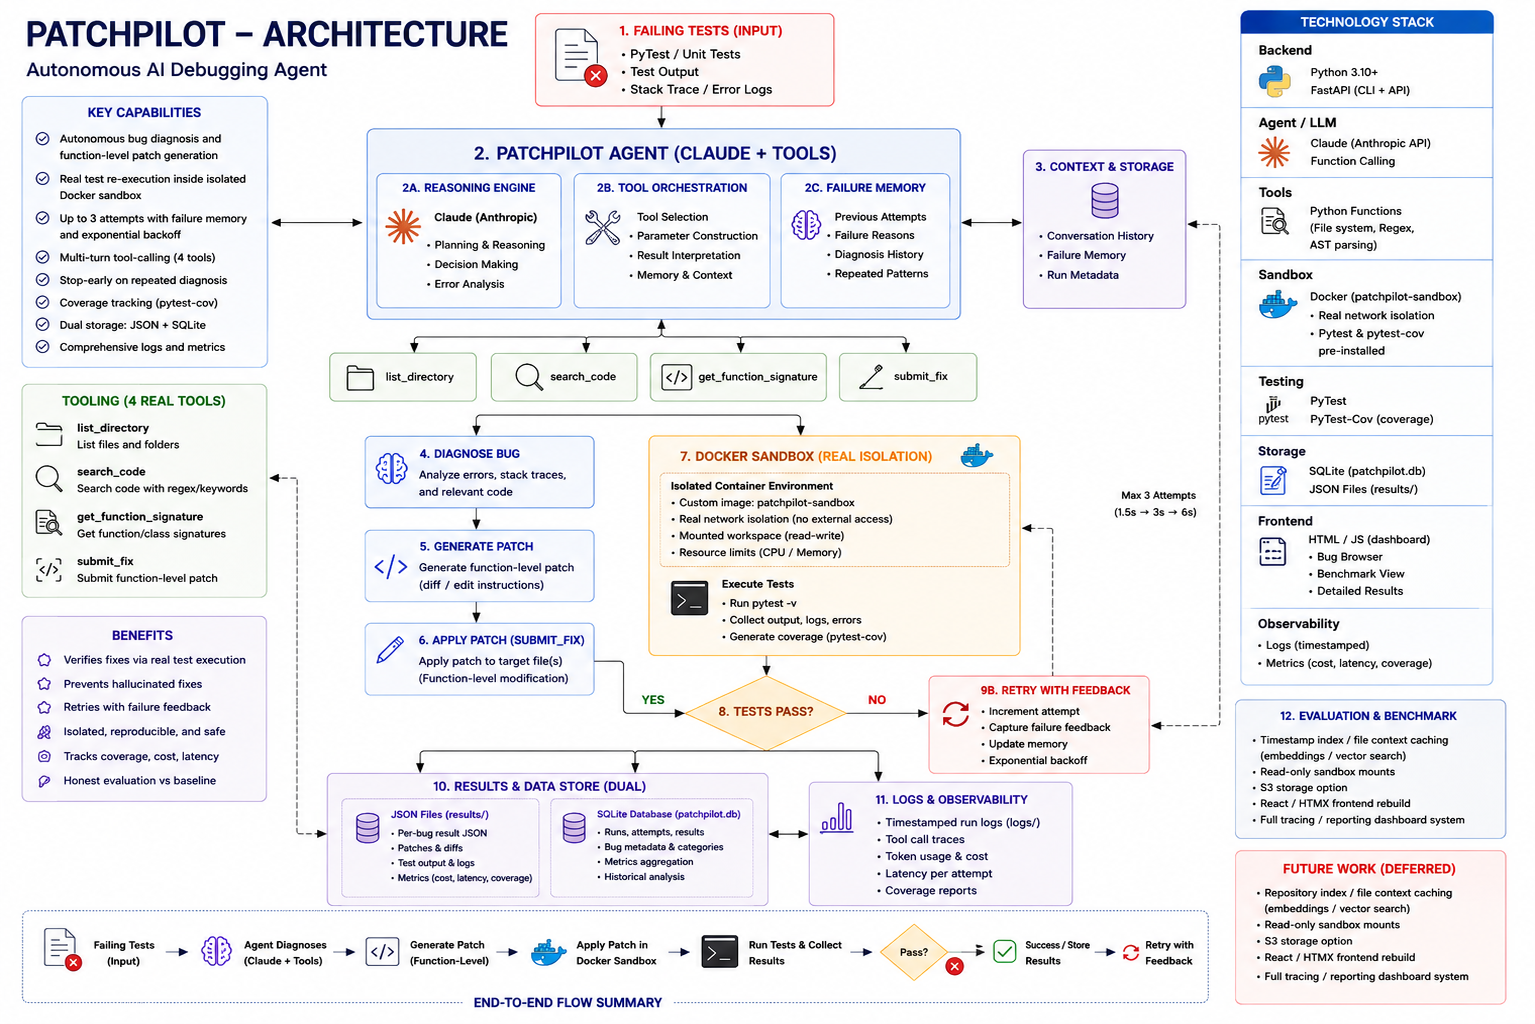
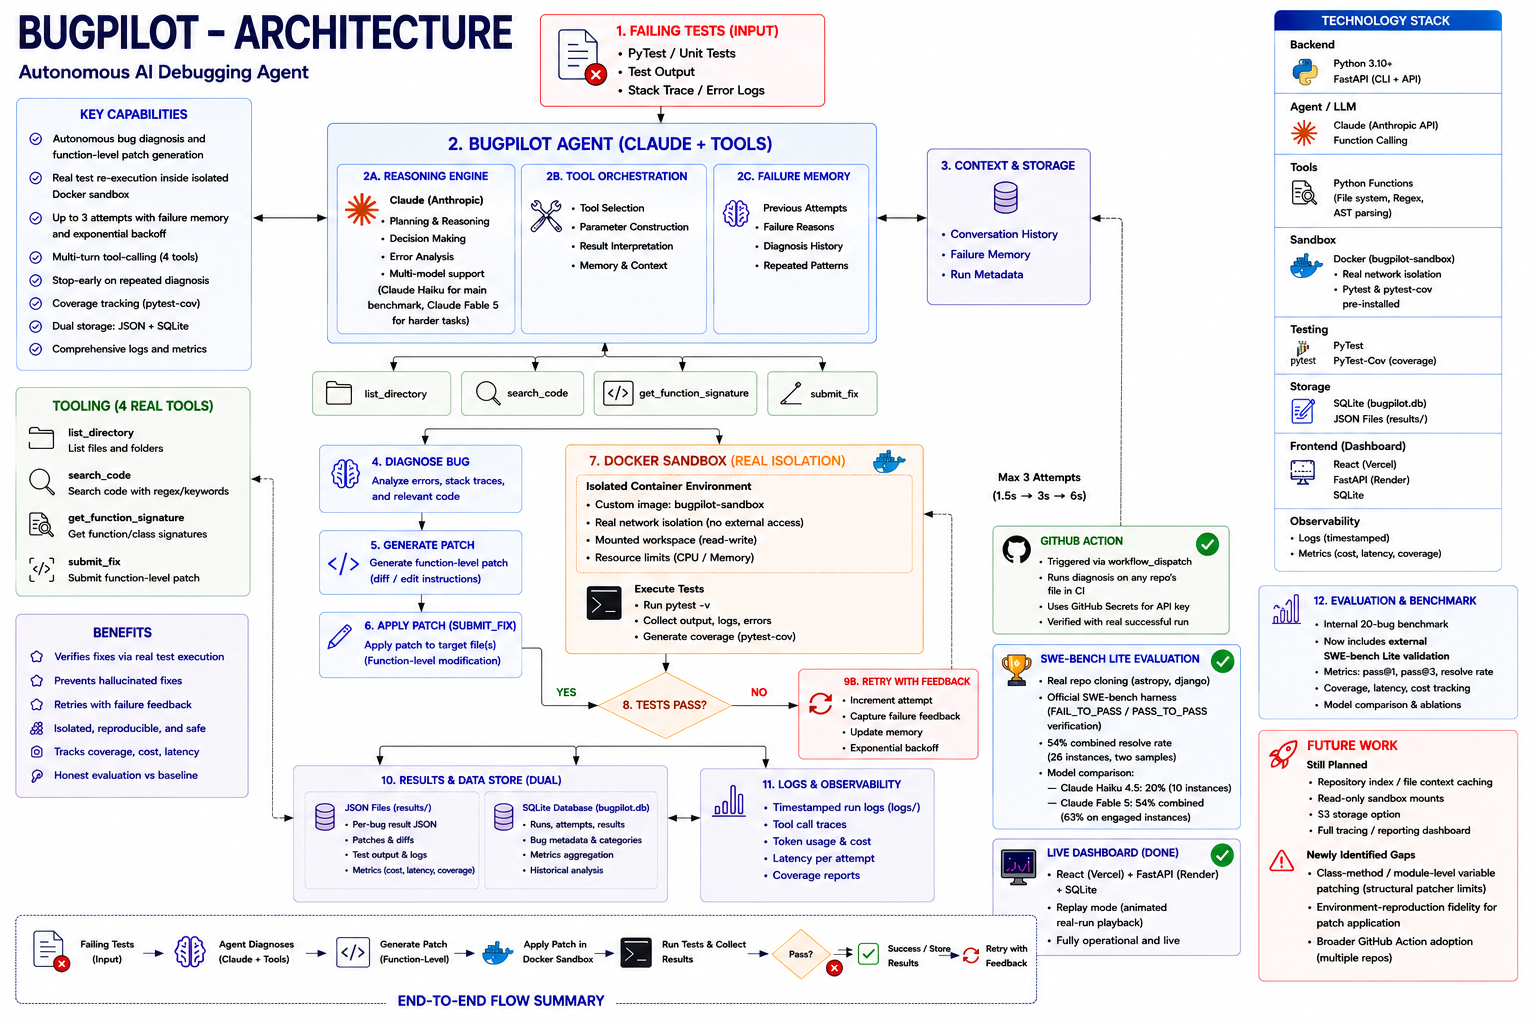
Final README update with SWE-bench Lite, GitHub Action, and dashboard documentation; add architecture diagram

Changed region(s): [[0.0, 0.0, 1.0, 1.0], [0.0, 0.375, 0.1837, 0.7812], [0.7655, 0.2188, 0.7961, 0.25]]

diff --git a/README.md b/README.md
@@ -2,13 +2,20 @@
 
 **BugPilot is an autonomous AI debugging agent that diagnoses failing tests, investigates a codebase using real tools, generates targeted function-level patches, executes them inside a network-isolated Docker sandbox, and retries failed repairs — with exponential backoff and failure memory — using feedback from previous attempts.**
 
+**🔗 Live dashboard: [https://bug-pilot-eight.vercel.app/](https://bug-pilot-eight.vercel.app/)** · API: https://bugpilot-8nbi.onrender.com/api/summary
+
+*(Free-tier hosting — the API may take up to ~50 seconds to wake on first load after inactivity.)*
+
 ![BugPilot architecture](screenshots/architecture.png)
 
 ## Overview
 
 Most demos of "AI that writes code" stop at generating a plausible-looking answer. BugPilot goes further: given a codebase with a failing test, it investigates the failure itself — reading files, searching code, and inspecting function signatures, all without being told where the bug is — proposes a fix, applies it, and **verifies the fix actually works** by re-running the real test suite inside an isolated, network-disabled sandbox. If the fix doesn't work, it retries with exponential backoff, carrying the memory of what didn't work into the next attempt.
 
-It was evaluated against a one-shot Claude baseline (no sandbox, no tools, no retries) across a 20-bug benchmark, including one real regression injected into a production codebase I built and shipped separately.
+BugPilot was evaluated three separate ways:
+1. Against a one-shot Claude baseline on a 20-bug internal benchmark
+2. Against **SWE-bench Lite**, the industry-standard external benchmark for AI coding agents, using real GitHub issues from real open-source projects
+3. As a working **GitHub Action**, verified with a real, successful run on this repo
 
 ## Why BugPilot?
 
@@ -18,19 +25,20 @@ Anyone can paste an error into a chatbot and get a suggested fix. What's harder 
 - Verifies its own answer is actually correct, rather than just plausible
 - Recovers from a wrong first attempt using structured, backed-off retries
 - Runs in a genuinely isolated environment, with no network access during execution
-- Reports honest, measured results rather than a marketing claim
+- Reports honest, measured results — including on an external benchmark it can't grade itself on
+- Works as real, reusable CI/CD tooling, not just a local script
 
 ## Architecture
 
-The full system: a failing test feeds into the agent, which reasons with Claude, calls real investigation tools, generates a targeted patch, and verifies it inside a network-isolated Docker sandbox — retrying with backoff on failure, and logging every attempt to both JSON and SQLite.
+The full system: a failing test feeds into the agent, which reasons with Claude, calls real investigation tools, generates a targeted patch, and verifies it inside a network-isolated Docker sandbox — retrying with backoff on failure, and logging every attempt to both JSON and SQLite. The same core diagnosis logic also powers a SWE-bench Lite evaluation pipeline and a GitHub Action for CI usage.
 
 See `screenshots/architecture.png` for the full diagram. Key stages:
 
 ```
 Failing test
     |
-BugPilot Agent (Claude + tools: list_directory, search_code,
-                   get_function_signature, submit_fix)
+BugPilot Agent (Claude Haiku or Fable 5 + tools: list_directory, search_code,
+                 get_function_signature, submit_fix)
     |
 Diagnose bug -> Generate function-level patch -> Apply patch
     |
@@ -52,7 +60,7 @@ Retry with feedback (exponential backoff: 1.5s -> 3s -> 6s, max 3 attempts,
 1. **Run tests** inside an isolated, network-disabled Docker container — a failure here is the trigger for everything downstream.
 2. **Investigate** — Claude may call `list_directory`, `search_code`, or `get_function_signature` to understand the codebase before deciding on a fix. This is a genuine multi-turn tool-calling loop, not a single request/response.
 3. **Diagnose and generate a patch** — Claude identifies the single function responsible and returns the corrected version of just that function, not a full-file rewrite.
-4. **Apply the patch** via a regex-based function-level find/replace, leaving the rest of the file untouched.
+4. **Apply the patch** via a regex-based function-level find/replace, leaving the rest of the file untouched. The patcher handles both top-level functions and class methods, and correctly avoids duplicating decorators (`@staticmethod`, etc.) — a real bug found and fixed during SWE-bench testing.
 5. **Re-run tests** (with coverage) inside the sandbox to verify the fix actually works.
 6. **Retry if needed** — up to 3 attempts, each with exponential backoff (1.5s, 3s, 6s) and the full history of prior failed attempts, so the model doesn't repeat itself. If two consecutive attempts produce the same diagnosis, BugPilot stops early rather than burning a wasted third attempt.
 7. **Record results** — every run writes to both a per-bug JSON file and a SQLite database, plus a timestamped log of the full run.
@@ -84,13 +92,19 @@ The workspace is mounted read-write (patches need to be written to disk), but no
 
 ## Patch Generation
 
-BugPilot patches at the **function level**, not the file level. Early versions asked Claude to rewrite the entire file on every fix — this worked for small toy files but hit the model's output token limit on a real ~330-line production file. The fix: ask for only the one broken function, then splice it into the existing file via regex. This is both more token-efficient and a safer pattern for autonomous code modification generally — the agent only touches the code it diagnosed as broken.
+BugPilot patches at the **function level**, not the file level. Early versions asked Claude to rewrite the entire file on every fix — this worked for small toy files but hit the model's output token limit on a real ~330-line production file. The fix: ask for only the one broken function, then splice it into the existing file via regex.
+
+During SWE-bench testing, the patcher was extended twice more:
+- To handle **class methods** (dotted names like `RST.__init__`, `Media.merge`), not just top-level functions
+- To correctly preserve original decorators (`@staticmethod`, etc.) instead of duplicating them — a real bug that silently corrupted an entire file and broke unrelated tests, found by reading actual test failure logs rather than just the pass/fail count
+
+It still cannot patch class-level attributes or module-level variables (e.g. Django's `FILE_UPLOAD_PERMISSIONS` setting) — these are structurally out of scope for a function-level patcher, and are documented as a known limitation rather than silently failing.
 
 ## Verification & Retry
 
 A fix is only considered successful if the **real test suite passes** after it's applied — not because the patch "looks right." If tests still fail, BugPilot retries (up to `MAX_ATTEMPTS = 3`) with exponential backoff between attempts, passing the full history of prior diagnoses to the next attempt. If two consecutive attempts produce an identical diagnosis, BugPilot stops early rather than continuing to spin — a sign the agent is stuck, not making progress.
 
-## Benchmark
+## Internal Benchmark (20 bugs)
 
 20 reproducible bugs, each isolated in its own folder with a broken implementation and a test suite that exposes the defect:
 
@@ -107,29 +121,60 @@ A fix is only considered successful if the **real test suite passes** after it's
 | Edge case (empty input) | 2 |
 | Regression (real production code) | 2 |
 
-One bug (`bug_09_ats_exact_match`) is not synthetic — it's a real function (`_exact_match`) extracted from **[Taylrd](https://github.com/Dev0602/taylrd)**, an AI resume-tailoring platform I built and shipped separately, with a realistic regression (loss of regex word-boundary matching) reintroduced. Another (`bug_20_buzzword_detection`) mirrors a similar case-sensitivity pattern from the same codebase.
+One bug (`bug_09_ats_exact_match`) is not synthetic — it's a real function (`_exact_match`) extracted from **[Taylrd](https://github.com/Dev0602/taylrd)**, an AI resume-tailoring platform I built and shipped separately, with a realistic regression (loss of regex word-boundary matching) reintroduced.
 
-## Results
-
-**Final result: 20/20 bugs fixed (100%)**, using the complete system — real network isolation, 4-tool investigation, coverage tracking, exponential backoff, and dual storage, all working together.
-
-| Metric | BugPilot | Baseline (one-shot Claude) |
-|---|---|---|
-| Bugs tested | 20 | 20 |
-| Fixed | 20/20 | 20/20 |
-| Success rate | 100% | 100% |
-| Verification | Real sandboxed test re-execution | None |
-| Retry on failure | Yes (max 3, exponential backoff, failure memory) | No |
-| Investigation tools | Yes (4 tools, multi-turn) | No |
-| Network isolation | Yes | N/A |
+**Result: 20/20 bugs fixed (100%)**, using the complete system — real network isolation, 4-tool investigation, coverage tracking, exponential backoff, and dual storage, all working together.
 
 ### Honest finding
 
-BugPilot and the one-shot Claude baseline both achieved 100% repair success on this 20-bug benchmark. This indicates the benchmark was not sufficiently difficult to demonstrate a raw success-rate advantage for the agentic workflow — `claude-haiku-4-5` is simply capable enough at these single-function, clearly-scoped bugs to solve them reliably without tools or retries.
+BugPilot and a one-shot Claude baseline both achieved 100% on this 20-bug benchmark — this indicates the benchmark itself wasn't hard enough to show a raw accuracy advantage for the agentic approach. BugPilot's demonstrated value here is **automated execution-based verification, isolated patch application, and structured retry handling** — not a claimed accuracy improvement. This honest finding is exactly why the project was extended to SWE-bench Lite: an unverifiable 100% on a self-designed benchmark isn't a strong enough claim on its own.
 
-BugPilot's demonstrated contribution is therefore **automated execution-based verification, isolated patch application, real investigation tooling, and structured retry handling with failure memory** — not a claimed improvement in raw repair accuracy. A one-shot answer is never actually confirmed correct; BugPilot's is, every time, by construction.
+## External Validation: SWE-bench Lite
 
-A secondary honest finding: giving the agent investigation tools increases cost meaningfully (each investigation step is a full extra round-trip to Claude) even when the bug doesn't strictly require investigation — a real, quantified capability-vs-cost tradeoff worth accounting for in any production use of this pattern.
+[SWE-bench Lite](https://www.swebench.com/) is the industry-standard benchmark for AI coding/debugging agents — 300 real bugs pulled from real GitHub issues in large, well-known open-source Python projects (astropy, django, and others), each with the real human-written fix and a rigorous `FAIL_TO_PASS`/`PASS_TO_PASS` test-based grading criterion. Unlike the internal 20-bug benchmark, these instances are not self-designed, making the result independently credible.
+
+**Setup:** cloned real repos at their exact pre-fix commits, fed the real GitHub issue text and the real (often 300+ line) buggy file to Claude, generated a patch via the same tool-calling + regex-patching pipeline as the main agent, and scored it using the **official SWE-bench evaluation harness** (not a custom checker).
+
+**Real infrastructure work along the way:**
+- SWE-bench's pre-built Docker images are x86_64-only; fixed by forcing the harness to build environments locally on Apple Silicon (`--force_rebuild --namespace none`)
+- Validated the harness itself first by running it against the official gold (human-written) patches, before ever testing BugPilot's own output
+- Found and fixed the decorator-duplication patching bug described above by reading real test failure logs, not just the pass/fail summary
+
+### Results
+
+| Model | Instances attempted | Resolved | Resolve rate |
+|---|---|---|---|
+| Claude Haiku 4.5 | 8/10 | 2/10 | 20% |
+| Claude Fable 5 (sample 1) | 6/10 | 4/10 | 40% |
+| Claude Fable 5 (sample 2) | 16/16 | 10/16 | 62.5% |
+| **Combined (both Fable 5 samples)** | **22/26** | **14/22** | **54% overall · ~63% of engaged instances** |
+
+**Headline result: 54% resolved across 26 attempted instances (two independent samples), with a consistent ~63% resolve rate whenever the model actually engages with an instance.** The convergence of this ~63% figure across two separate, non-overlapping instance sets (one mixed astropy/django, one all-django) is real evidence this reflects genuine capability, not a lucky sample.
+
+### Honest failure analysis
+
+Every non-resolution was investigated and categorized, not just counted:
+
+- **Model refusals (~30–38% of instances, confirmed on two separate retries with identical results)** — Claude Fable 5 consistently declines to complete the tool call on certain instances. This is real, reproducible model behavior, not a bug in BugPilot's code, and is reported honestly rather than hidden or silently retried into a better-looking number.
+- **Structural patcher limits** — module-level variables and class-level attributes can't be patched by a function-level patcher by definition (e.g. Django's `FILE_UPLOAD_PERMISSIONS`).
+- **Environment-reproduction fragility** — one retry-with-feedback attempt produced a logically correct fix (verified by manually inspecting the diff) that still failed to *apply* inside the harness's exact environment, due to a subtle mismatch between the local checkout and the harness's internal canonical copy. This is a known class of fragility in diff-based patching, documented as a real limitation rather than pursued further by hand-editing.
+
+## GitHub Action
+
+BugPilot is also packaged as a reusable GitHub Action (`.github/actions/bugpilot-action/`), verified with a real, successful run — not just written and left untested.
+
+**What it does:** given a target file, checks it out in CI, calls the real Anthropic API (via a GitHub Secret, never committed to code), and reports whether a bug was found — with a diagnosis if so.
+
+**Real verified run:** triggered manually against this repo's own `tools.py` — succeeded end-to-end in ~14s, correctly reporting *"No bug found"* on genuinely clean, already-tested code (a true negative, not a hallucinated fix).
+
+```yaml
+# .github/workflows/bugpilot-check.yml
+- name: Run BugPilot
+  uses: ./.github/actions/bugpilot-action
+  with:
+    anthropic-api-key: ${{ secrets.ANTHROPIC_API_KEY }}
+    target-file: tools.py
+```
 
 ## Example Run
 
@@ -153,13 +198,19 @@ BugPilot/
 ├── agent.py               # Core agent: sandbox, tools, diagnosis, patching, retry loop
 ├── tools.py                 # read_file / write_file / list_directory / search_code / get_function_signature
 ├── db.py                     # SQLite storage (init_db, save_result, get_all_results)
+├── api.py                     # FastAPI backend for the live dashboard
 ├── baseline.py                 # One-shot comparison system (no tools/sandbox)
 ├── run_baseline.py               # Runs the baseline across all bugs
 ├── reset_bugs.py                   # Restores all bugs to their broken state
+├── swebench_batch_solve.py          # SWE-bench Lite integration: clone, diagnose, patch, format
 ├── Dockerfile                       # Custom sandbox image (pytest/pytest-cov pre-installed)
 ├── requirements.txt
 ├── .env.example
 ├── .gitignore
+│
+├── .github/
+│   ├── workflows/bugpilot-check.yml    # Workflow that triggers the Action
+│   └── actions/bugpilot-action/          # The reusable Action (action.yml + run_action.py)
 │
 ├── bugs/
 │   ├── bug_01_calculator/ ... bug_20_buzzword_detection/
@@ -174,7 +225,10 @@ BugPilot/
 ├── bugpilot.db                # SQLite database (all results, queryable)
 │
 ├── frontend/
-│   └── index.html                # Dashboard: bug browser + benchmark comparison view
+│   └── index.html                # Static dashboard: bug browser + benchmark comparison view
+│
+├── dashboard/
+│   └── src/                        # Live React dashboard (deployed on Vercel), with replay mode
 │
 └── screenshots/
     └── architecture.png            # Architecture diagram
@@ -215,6 +269,46 @@ python3 agent.py        # writes results/*.json and bugpilot.db
 open frontend/index.html
 ```
 
+## Running SWE-bench Lite Evaluation
+
+```bash
+pip install swebench datasets
+python3 swebench_batch_solve.py        # generates predictions for a sample of instances
+python3 -m swebench.harness.run_evaluation \
+  --predictions_path bugpilot_batch_predictions.json \
+  --run_id my_run \
+  --force_rebuild True \
+  --namespace none
+```
+
+Note: this pulls real, large open-source repos and builds real Docker evaluation environments per instance — expect meaningful time (minutes per instance) and API cost, especially with larger models.
+
+## Live Dashboard
+
+Beyond the static `frontend/index.html`, BugPilot has a live, deployed dashboard: a React frontend backed by a FastAPI API that reads directly from `bugpilot.db`, including a **replay mode** that animates a real, completed repair run step-by-step (diagnose → patch → verify) using stored data — deliberately not a live-triggered run, to avoid public API cost/abuse risk.
+
+**Architecture:**
+```
+React (Vercel) -> fetch -> FastAPI (Render) -> SQLite (bugpilot.db)
+```
+
+**Run it locally:**
+```bash
+# Terminal 1 — backend
+python3 -m uvicorn api:app --reload --port 8000
+
+# Terminal 2 — frontend
+cd dashboard
+npm install
+npm start
+```
+
+**Deployed:**
+- Backend (FastAPI): [Render](https://render.com) — free tier, running `uvicorn api:app --host 0.0.0.0 --port $PORT`
+- Frontend (React): [Vercel](https://vercel.com) — free tier, root directory `dashboard`, auto-detected as Create React App
+- `bugpilot.db` is committed to the repo so the deployed dashboard always shows real, seeded results — never an empty page
+- Free-tier backend sleeps after inactivity; the frontend shows a loading message on cold start (~50s) rather than appearing broken
+
 ## Querying Results
 
 Since results are stored in SQLite, they're directly queryable:
@@ -233,20 +327,23 @@ This surfaced a real finding: `bug_17_recursion` and `bug_08_factorial` are cons
 
 ## Limitations
 
-- Current benchmark focuses on Python bugs.
-- The benchmark uses relatively small, mostly single-file functions.
-- BugPilot currently modifies a single function at a time.
+- BugPilot currently modifies a single function or method at a time — it cannot patch module-level variables or class-level attributes.
 - Multi-file dependency reasoning is not currently supported — no repository-wide index or file context cache.
 - The sandbox workspace is mounted read-write, not read-only.
-- Benchmark size is limited to 20 bugs.
-- Results depend on the underlying LLM (`claude-haiku-4-5`).
+- Very large files (100K+ characters) increase cost and reduce reliability.
+- Model refusals occur on a meaningful minority (~30–38%) of real-world SWE-bench instances, for reasons not fully understood.
+- Diff-based patch application can fail due to environment-reproduction mismatches, independent of fix correctness.
+- The live dashboard's backend runs on Render's free tier, which sleeps after inactivity.
+- The GitHub Action has been verified on this repository; broader multi-repo adoption is a natural next step, not yet done.
 
 ## Future Work
 
 - Repository index / file context caching (would require embeddings or vector search — a meaningfully larger subsystem, deliberately deferred)
 - Read-only sandbox mounts where the patch target isn't the only file present
 - S3 (or similar) storage option alongside local JSON/SQLite
-- React/HTMX frontend rebuild (current static HTML dashboard is functional; this would be a polish pass, not new capability)
+- Class-level attribute and module-level variable patching (would require moving beyond regex to AST-based patching)
+- Investigating the root cause of model refusals on certain SWE-bench instances
+- Broader GitHub Action adoption across multiple real repositories
 - Full tracing / reporting dashboard system beyond the current timestamped logs and SQL queries
 
 ---
